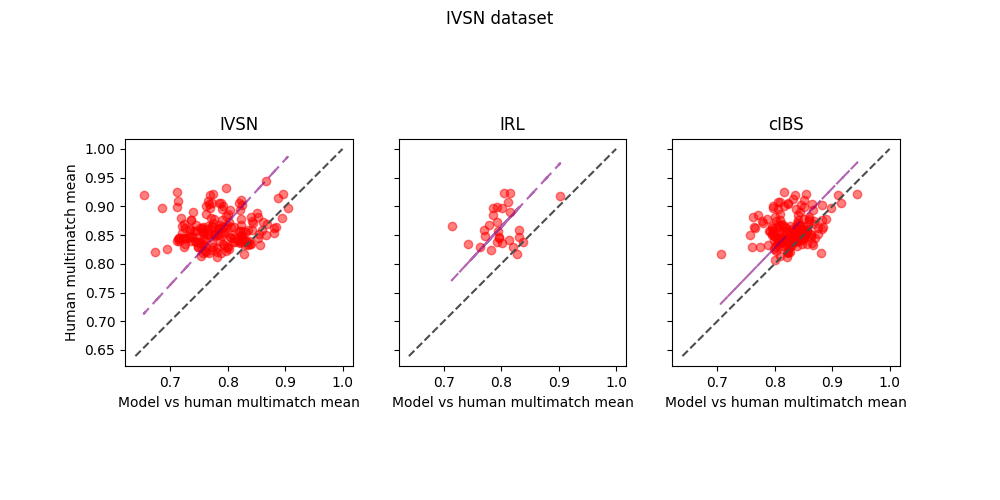
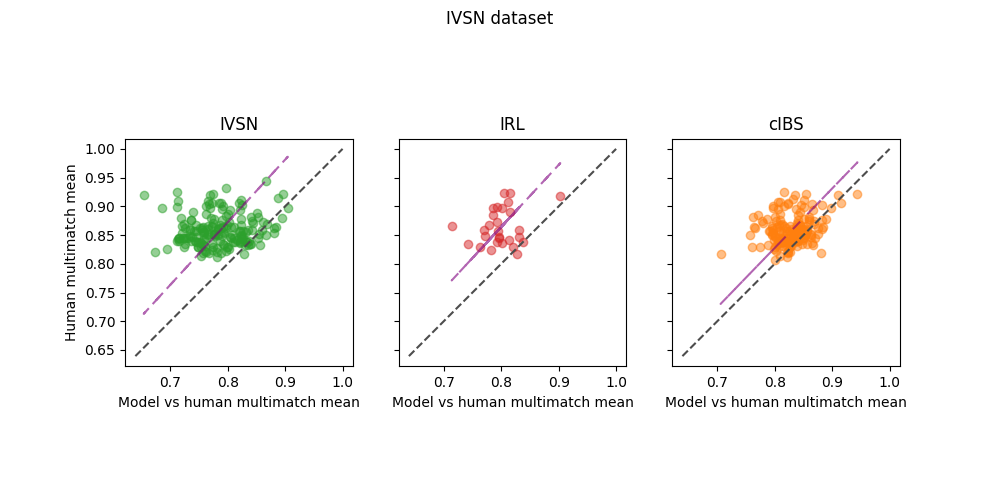
(Metrics) Colores a los plots de Multimatch

diff --git a/Metrics/multimatch.py b/Metrics/multimatch.py
@@ -20,8 +20,9 @@ class Multimatch:
             model_name = model
             model_vs_human_multimatch = self.multimatch_values[model]['model_vs_humans']
             humans_multimatch         = self.multimatch_values[model]['human_mean']
+            model_color               = self.multimatch_values[model]['plot_color']
 
-            self.add_to_plot(axs[ax_index], model_name, model_vs_human_multimatch, humans_multimatch)
+            self.add_to_plot(axs[ax_index], model_name, model_vs_human_multimatch, humans_multimatch, model_color)
             ax_index += 1
 
         # Get plot limits
@@ -44,7 +45,7 @@ class Multimatch:
         plt.savefig(path.join(save_path, 'Multimatch against humans.png'))
         plt.show()
 
-    def add_to_plot(self, ax, model_name, multimatch_values_per_image_x, multimatch_values_per_image_y):
+    def add_to_plot(self, ax, model_name, multimatch_values_per_image_x, multimatch_values_per_image_y, plot_color):
         x_vector = []
         y_vector = []
         trials_names = []
@@ -62,7 +63,7 @@ class Multimatch:
             y_vector.append(value_y)
 
         # Plot multimatch
-        ax.scatter(x_vector, y_vector, color='red', alpha=0.5)
+        ax.scatter(x_vector, y_vector, color=plot_color, alpha=0.5)
 
         # Plot linear regression
         x_linear   = np.array(x_vector)[:, np.newaxis]
@@ -95,7 +96,7 @@ class Multimatch:
         print(scores_left_half[:10])
         print('%%%%%%%%%%%%%%%%%%%%%%%%%%%%%%%%%%%%')
 
-    def add_model_vs_humans_mean_per_image(self, model_name, model_scanpaths):
+    def add_model_vs_humans_mean_per_image(self, model_name, model_scanpaths, model_color):
         " For each scanpath produced by the model, multimatch is calculated against the scanpath of that same image for every human subject "
         " The mean is computed for each image "
         " Output is a dictionary where the image names are the keys and the multimatch means are the values "
@@ -135,6 +136,7 @@ class Multimatch:
             multimatch_model_vs_humans_mean_per_image[image_name] = (np.divide(multimatch_model_vs_humans_mean_per_image[image_name], total_values_per_image[image_name])).tolist()
 
         self.multimatch_values[model_name]['model_vs_humans'] = multimatch_model_vs_humans_mean_per_image
+        self.multimatch_values[model_name]['plot_color'] = model_color
 
     def load_human_mean_per_image(self, model_name, model_scanpaths):
         " For each human subject, multimatch is computed against every other human subject, for each trial "

diff --git a/Metrics/main.py b/Metrics/main.py
@@ -42,7 +42,7 @@ for dataset in dataset_results_dirs:
 
         # Human multimatch scores are different for each model, since each model uses different image sizes
         multimatch.load_human_mean_per_image(model_name, model_scanpaths)
-        multimatch.add_model_vs_humans_mean_per_image(model_name, model_scanpaths)
+        multimatch.add_model_vs_humans_mean_per_image(model_name, model_scanpaths, colors[color_index])
 
         color_index += 1
     
